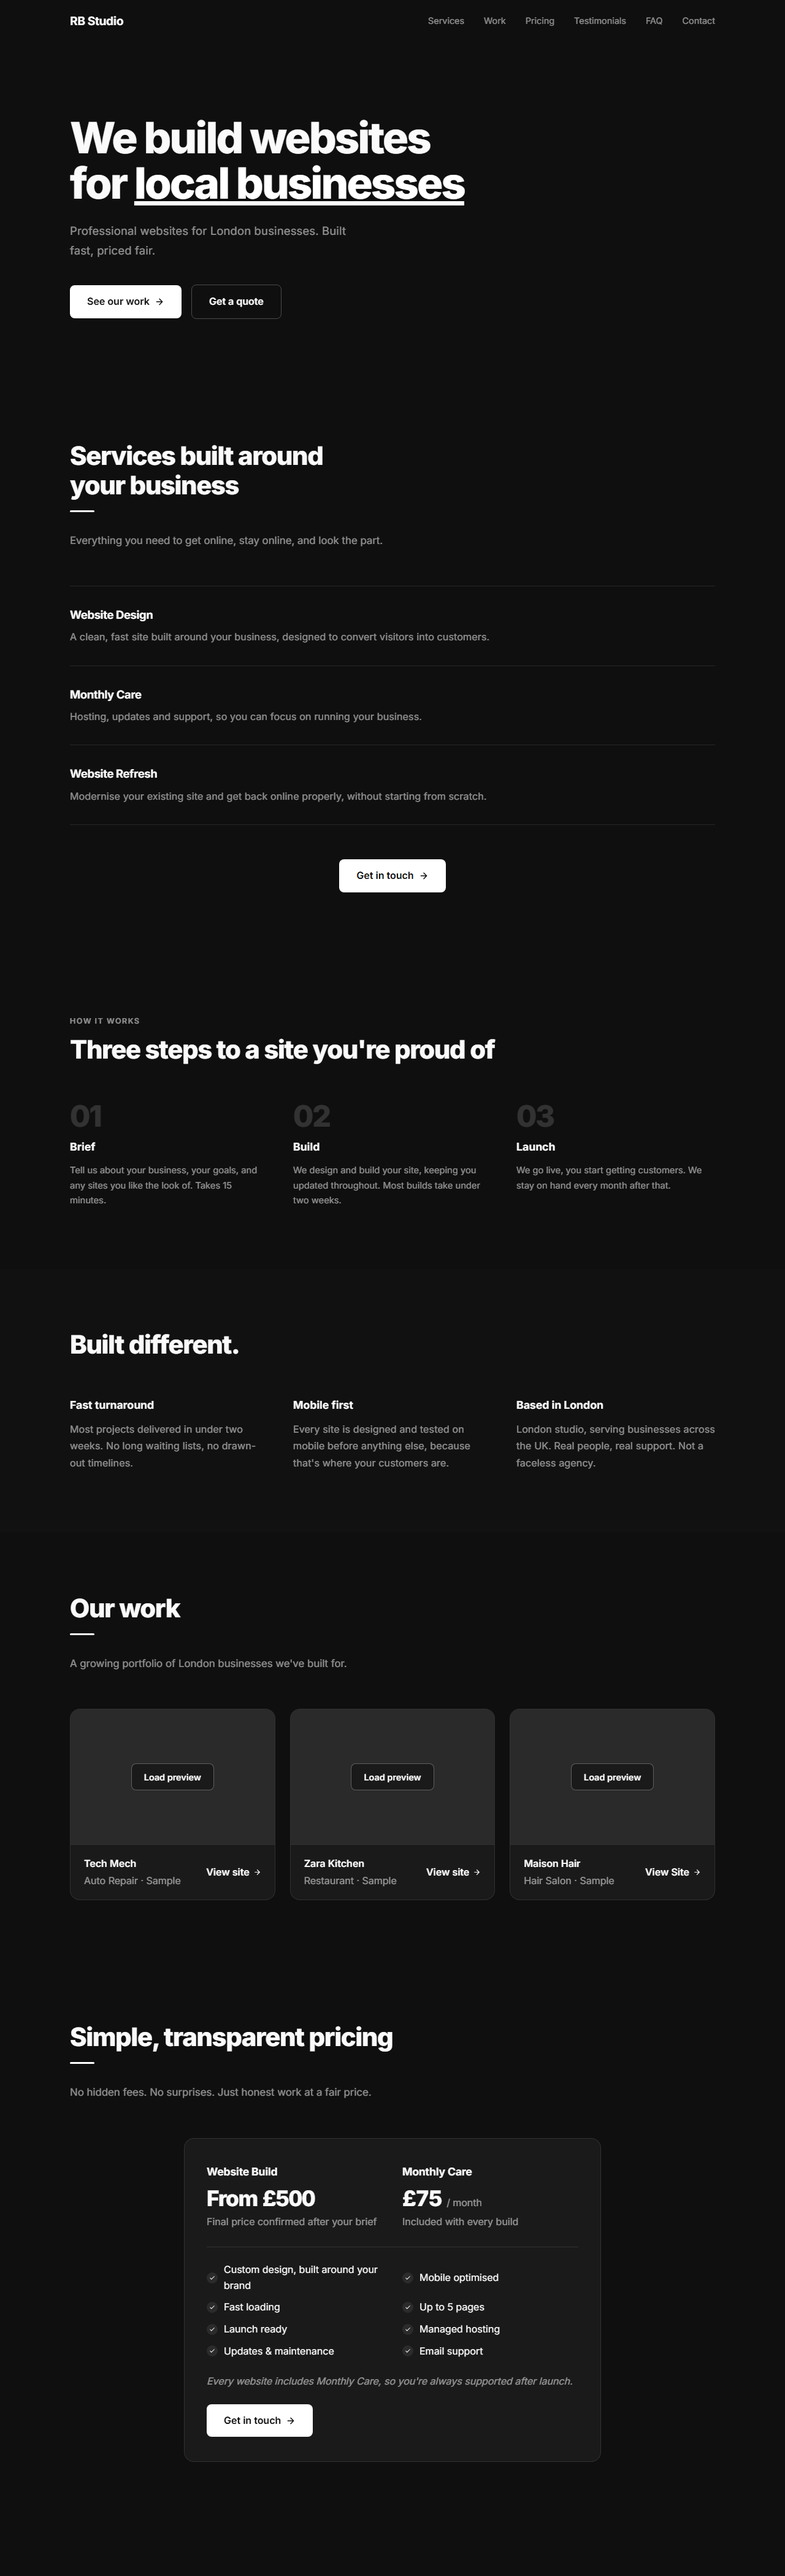
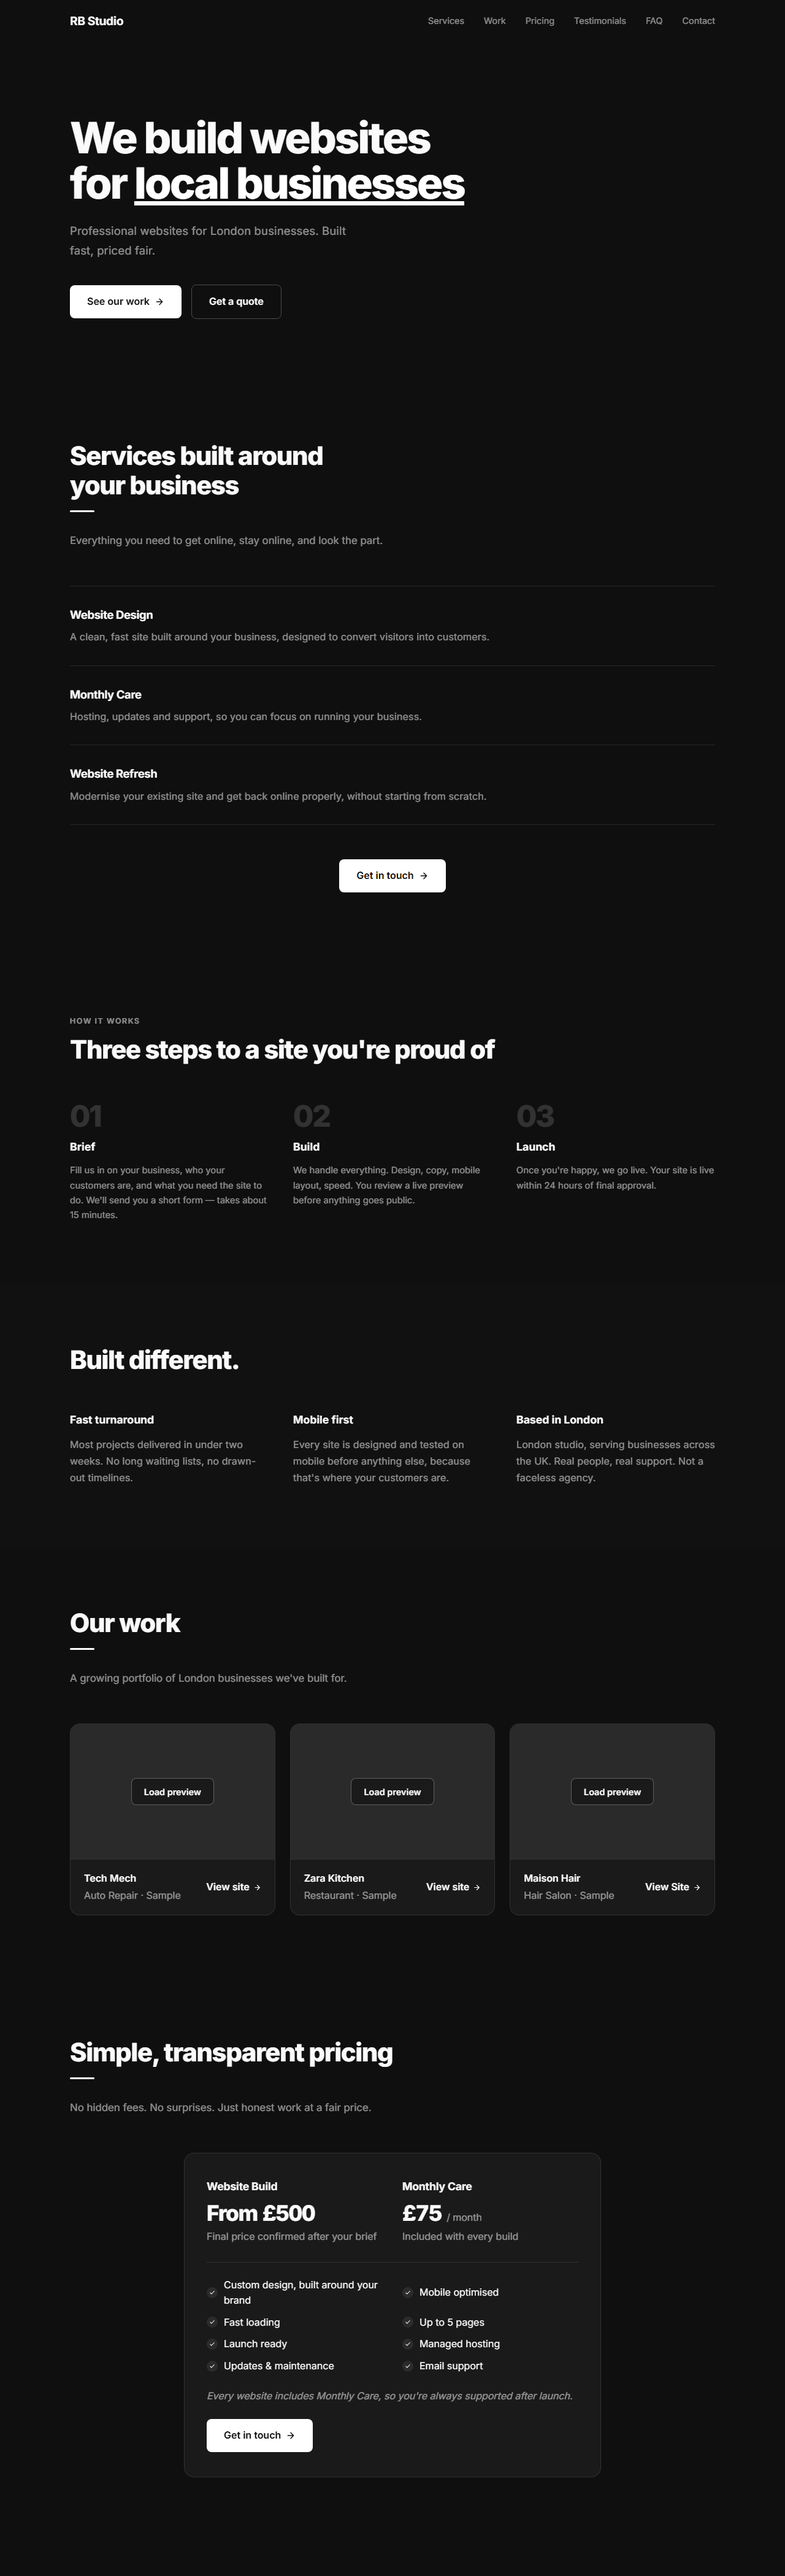
Update process step descriptions
Rewrite the Brief, Build and Launch descriptions with the new copy,
including the 24-hour go-live commitment. Refresh renders.

diff --git a/index.html b/index.html
@@ -1240,17 +1240,17 @@
         <div class="process-item fade-in fade-in-delay-1">
           <div class="process-num">01</div>
           <h3 class="process-title">Brief</h3>
-          <p class="process-desc">Tell us about your business, your goals, and any sites you like the look of. Takes 15 minutes.</p>
+          <p class="process-desc">Fill us in on your business, who your customers are, and what you need the site to do. We'll send you a short form — takes about 15 minutes.</p>
         </div>
         <div class="process-item fade-in fade-in-delay-2">
           <div class="process-num">02</div>
           <h3 class="process-title">Build</h3>
-          <p class="process-desc">We design and build your site, keeping you updated throughout. Most builds take under two weeks.</p>
+          <p class="process-desc">We handle everything. Design, copy, mobile layout, speed. You review a live preview before anything goes public.</p>
         </div>
         <div class="process-item fade-in fade-in-delay-3">
           <div class="process-num">03</div>
           <h3 class="process-title">Launch</h3>
-          <p class="process-desc">We go live, you start getting customers. We stay on hand every month after that.</p>
+          <p class="process-desc">Once you're happy, we go live. Your site is live within 24 hours of final approval.</p>
         </div>
       </div>
     </div>
